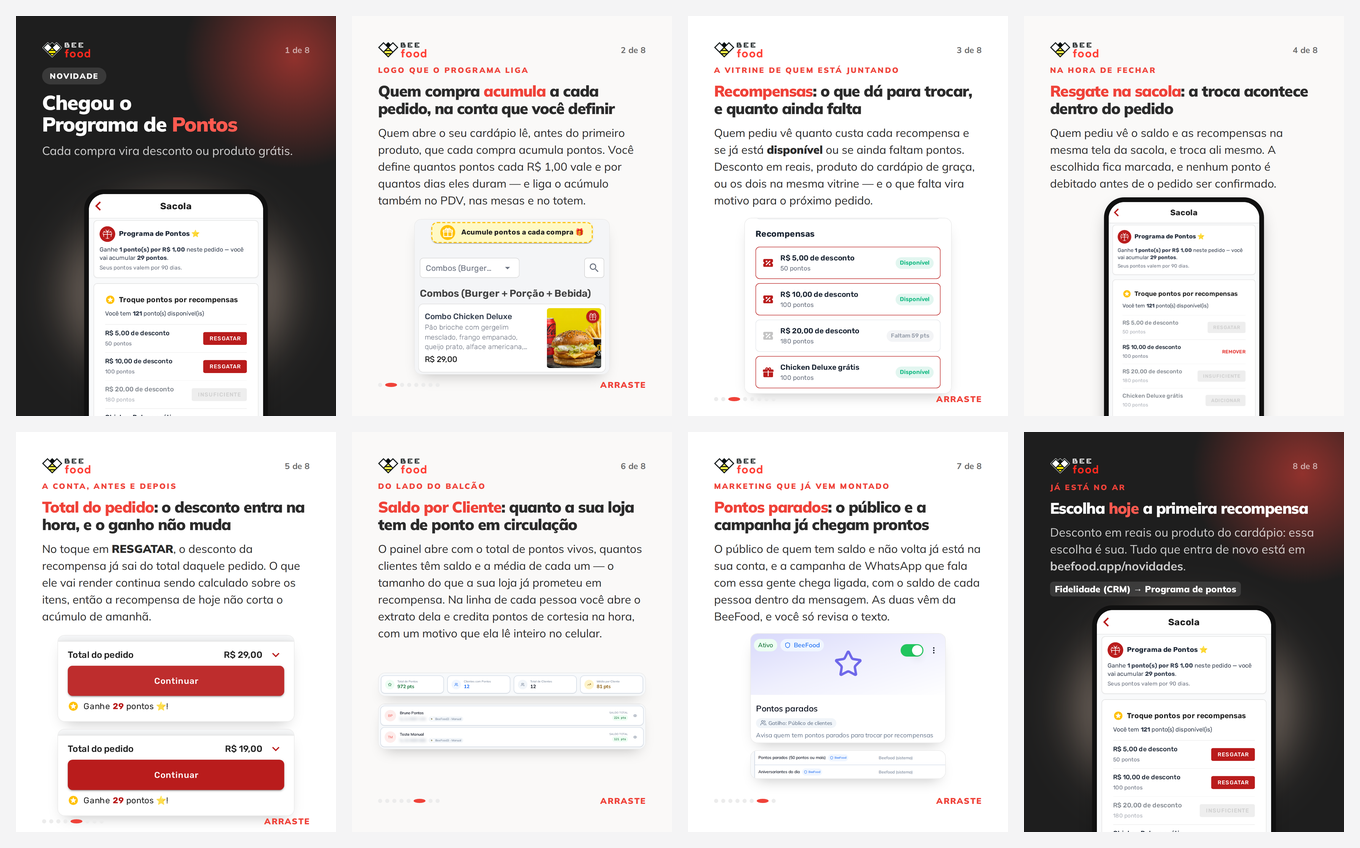
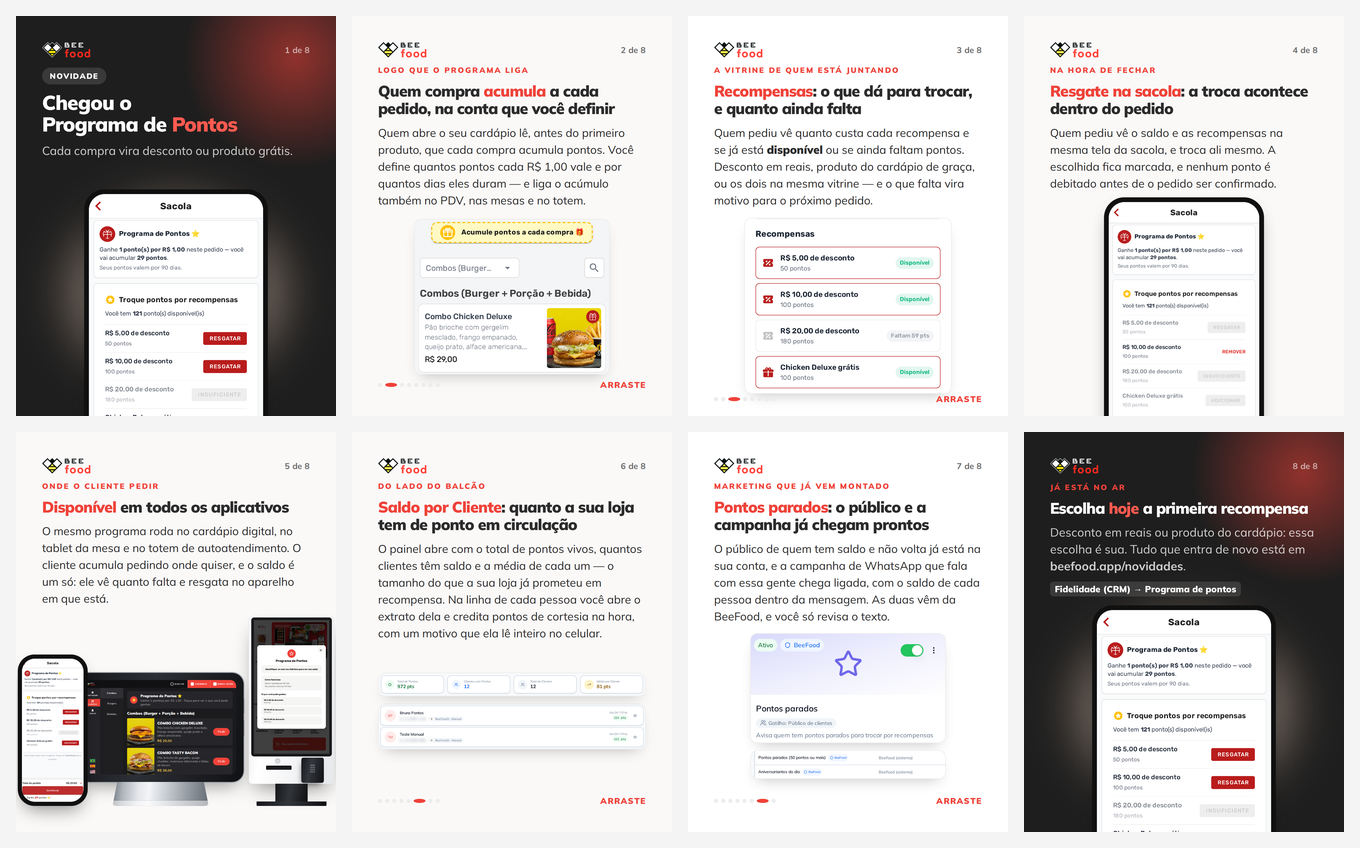
carrossel 12: troca o slide do total do pedido pela fileira de aparelhos
O dono pediu para tirar o slide 5 (Total do pedido) e por no lugar
"Disponivel em todos os aplicativos", com cardapio digital, tablet e
totem na mesma imagem.

- captura de verdade das telas de pontos do totem na sandbox
  (10-totem-cardapio, 11-totem-janela-pontos, rec-totem-faixa)
- slide 05-aplicativos com os tres aparelhos em fileira que sangra de
  borda a borda; a tela do tablet e desenhada, porque o APK Android nao
  roda aqui
- involucro de largura fixa em volta do totem e do tablet: a moldura
  deles e padding em porcentagem, e porcentagem mede a largura do PAI

Changed region(s): [[0.0, 0.5519, 0.2471, 0.9811]]

diff --git a/carrosseis/12-programa-de-pontos/slides/05-aplicativos.html b/carrosseis/12-programa-de-pontos/slides/05-aplicativos.html
@@ -1,0 +1,214 @@
+<!-- Slide 5: o lugar do antigo "Total do pedido", que saiu a pedido do dono.
+     O fato dele (o desconto entra na hora e o ganho nao muda) continua na
+     legenda; o que entra aqui e o alcance, que a peca nao dizia em imagem
+     nenhuma.
+
+     E o UNICO slide da peca em que a tela nao e para ser lida. A prova aqui
+     nao e o que esta escrito dentro dos aparelhos: e que sao TRES aparelhos,
+     e que nos tres aparece a mesma coisa vermelha com estrela. Por isso cada
+     um leva a tela em que o Programa de Pontos ocupa mais area: a sacola no
+     celular (cartao vermelho no alto), a faixa desenhada no tablet e a janela
+     de pontos no totem (circulo vermelho no meio do branco).
+
+     Duas das tres telas sao captura de verdade. A do tablet e DESENHADA, e e
+     a unica tela desenhada da peca: o aplicativo do tablet e um APK Android
+     (`Cardapio Mesa/Comanda`, 1.0.2.8) que nao roda no Cloud Agent, e o print
+     de producao que existe em `manuais/` foi tirado antes de o programa
+     existir. O desenho copia aquele print — fundo escuro, preco em amarelo,
+     botao vermelho — e acrescenta a faixa de pontos no formato que o release
+     promete para o canal presencial. Registrado no `roteiro.md` e no
+     `cena.json`.
+
+     A fileira SANGRA: em vez de `.figura`, que respeita a margem de 88 px dos
+     dois lados, o grupo e absoluto de borda a borda. A primeira versao ficou
+     dentro da margem, e com 904 px para dividir entre tres aparelhos sobrou
+     uma faixa branca de uns 130 px entre o corpo e o celular — o slide parecia
+     um texto com uma miniatura embaixo. Os 176 px da margem sao quase 20% de
+     aparelho, e e o que faz a fileira virar o assunto do slide.
+
+     A escala NAO e a fisica. Um totem de 1,80 m ao lado de um celular de
+     15 cm deixaria o celular do tamanho de uma unha. Os tres entram com altura
+     parecida, que e como pagina de produto alinha aparelho, e o totem fica
+     um pouco mais alto porque e o unico que fica em pe no chao.
+
+     Sem rodape: a base do totem e o suporte do tablet encostam no pe do
+     slide, e ponto desenhado em cima de aparelho parece sujeira. -->
+<div class="slide slide--suave">
+  <div class="topo">
+    <span class="logo"></span>
+    <span class="contador">5 de 8</span>
+  </div>
+
+  <div class="pilha g24" style="margin-top: 26px; max-width: 900px">
+    <!-- "Do delivery ao balcao" foi a primeira versao e saiu quase igual ao
+         chapeu do slide 6 ("Do lado do balcao") — na folha de contato os dois
+         liam como o mesmo slide. -->
+    <span class="chapeu">Onde o cliente pedir</span>
+    <h2 class="titulo titulo--pequeno">
+      <span class="destaque">Disponível</span> em todos os aplicativos
+    </h2>
+    <p class="corpo">
+      O mesmo programa roda no cardápio digital, no tablet da mesa e no totem
+      de autoatendimento. O cliente acumula pedindo onde quiser, e o saldo é um
+      só: ele vê quanto falta e resgata no aparelho em que está.
+    </p>
+  </div>
+
+  <!-- Fileira de borda a borda. `left/right: 0` resolve contra a caixa de
+       padding do `.slide`, entao o grupo ignora a margem; `bottom: 88px` traz
+       o pe do grupo de volta para a linha da margem, que e onde o rodape dos
+       outros slides comeca. A altura e a do totem inteiro (carcaca + coluna +
+       base), que e o aparelho mais alto dos tres. -->
+  <div style="position: absolute; left: 0; right: 0; bottom: 88px; height: 638px">
+
+    <!-- CADA APARELHO VAI DENTRO DE UM INVOLUCRO DA LARGURA DELE, e isso nao e
+         gosto: a moldura do `.totem` e a do `.tablet` sao `padding` em
+         PORCENTAGEM, e porcentagem de padding mede a largura do bloco que
+         CONTEM o elemento, nao a largura dele. Com o aparelho absoluto direto
+         aqui dentro, a conta virava 6% de 1080 — moldura de 65 px num totem de
+         300, quase quatro vezes a certa. No render o totem saiu atarracado,
+         com a tela do tamanho de um selo no meio de um armarinho branco.
+         O involucro de largura fixa devolve a porcentagem ao aparelho. -->
+
+    <!-- Totem: captura de verdade, 720x1280 (9/16), a janela de pontos aberta.
+         O `bottom` do involucro e a coluna (60) mais a base (15), porque as
+         duas sao absolutas penduradas em `top: 100%` e nao entram na altura do
+         `.totem` — sem isso a base furava o pe do slide. E o mais alto dos
+         tres de proposito: e o unico que fica em pe no chao. -->
+    <div style="position: absolute; right: 6px; bottom: 75px; width: 288px">
+    <!-- O fio cinza no `box-shadow` nao e enfeite: a carcaca do totem e branca
+         e o fundo do slide e `--fundo-suave`, quase branco tambem. Sem o fio,
+         o terco de cima do totem sumia e o slide parecia ter um vao vazio
+         entre o corpo e a fileira. -->
+    <div class="totem"
+         style="width: 100%; --coluna: 60px;
+                box-shadow: 0 0 0 1px #e1e2e6,
+                            0 34px 64px -22px rgba(0, 0, 0, 0.45)">
+      <div class="totem__tela">
+        <img src="../imagens-puras/11-totem-janela-pontos.png"
+             alt="A janela Programa de Pontos aberta na tela do totem">
+      </div>
+      <div class="totem__painel">
+        <span class="totem__leitor"></span>
+        <span class="totem__impressora"></span>
+        <span class="totem__pinpad">
+          <span class="totem__tecla"><span></span><span></span><span></span></span>
+          <span class="totem__tecla"><span></span><span></span><span></span></span>
+          <span class="totem__tecla"><span></span><span></span><span></span></span>
+        </span>
+      </div>
+      <div class="totem__coluna"></div>
+      <div class="totem__base"></div>
+    </div>
+    </div>
+
+    <!-- Tablet: tela DESENHADA, porque o APK Android nao roda aqui. O
+         `bottom: 81px` e a altura do suporte (um quarto de 58% da largura),
+         para a chapa encostar na mesma linha em que a base do totem encosta.
+
+         Tablet deitado e grande no meio do slide corre o risco de ler como
+         MONITOR — o defeito que o proprio `base.css` avisa. Aqui quem desfaz a
+         leitura e a fileira, nao o desenho: o totem mais alto a direita da a
+         escala, e o celular cobrindo o canto esquerdo da a profundidade. Por
+         isso o celular entra sobrepondo o tablet, e nao encostado nele. -->
+    <div style="position: absolute; left: 208px; bottom: 81px; width: 560px">
+    <div class="tablet" style="width: 100%">
+      <div class="tablet__tela">
+        <!-- A tela desenhada e toda em `em`: esse `font-size` e a escala dela.
+             11,5 px e o que mantem a faixa de pontos legivel como faixa e deixa
+             o corte cair dentro da foto do ultimo item, nao no preco. -->
+        <div class="tela-tablet" style="font-size: 11.5px">
+          <div class="tela-tablet__topo">
+            <span class="tela-tablet__logo"></span>
+            <span class="tela-tablet__busca"><i class="lupa"></i>BUSCAR</span>
+            <span class="tela-tablet__acao"><i></i>CARRINHO</span>
+            <span class="tela-tablet__acao"><i></i>MINHA CONTA</span>
+          </div>
+          <div class="tela-tablet__miolo">
+            <div class="tela-tablet__atalhos">
+              <div class="tela-tablet__atalho"><i></i>DESTAQUES</div>
+              <div class="tela-tablet__atalho tela-tablet__atalho--ativo">
+                <i class="talher"></i>CARDÁPIO
+              </div>
+              <div class="tela-tablet__atalho"><i class="sino"></i>AVALIE</div>
+              <div class="tela-tablet__idiomas">
+                <span class="bandeira bandeira--retangular"><span>&#127463;&#127479;</span></span>
+                <span class="bandeira bandeira--retangular"><span>&#127466;&#127480;</span></span>
+                <span class="bandeira bandeira--retangular"><span>&#127482;&#127480;</span></span>
+              </div>
+            </div>
+            <div class="tela-tablet__setores">
+              <div class="tela-tablet__setor tela-tablet__setor--ativo">Combos</div>
+              <div class="tela-tablet__setor">Burgers</div>
+              <div class="tela-tablet__setor">Bebidas</div>
+            </div>
+            <div class="tela-tablet__corpo">
+              <!-- A faixa de pontos, no formato do cardapio e do totem: circulo
+                   vermelho com estrela, nome do programa e a regua. Cartao
+                   escuro porque a tela do tablet e escura. -->
+              <div style="display: flex; align-items: center; gap: 0.8em;
+                          padding: 0.7em 0.9em; border-radius: 0.4em;
+                          background: #26262a">
+                <span style="flex: none; width: 2.2em; height: 2.2em;
+                             border-radius: 50%; background: var(--primaria);
+                             display: flex; align-items: center;
+                             justify-content: center; font-size: 1em">⭐</span>
+                <span style="display: flex; flex-direction: column; gap: 0.1em">
+                  <b style="font-size: 1.05em; font-weight: 900">Programa de Pontos ⭐</b>
+                  <small style="font-size: 0.85em; color: rgba(255,255,255,0.6)">
+                    Ganhe 1 ponto(s) por R$ 1,00 · Toque para ver o que você pode ganhar
+                  </small>
+                </span>
+              </div>
+              <div class="tela-tablet__faixa">Combos (Burger + Porção + Bebida)</div>
+              <div class="tela-tablet__item">
+                <img src="skill:fotos/foto-melted.png" alt="">
+                <div class="tela-tablet__texto">
+                  <span>COMBO CHICKEN DELUXE</span>
+                  <small>Pão brioche com gergelim mesclado, frango empanado,
+                    queijo prato e alface americana</small>
+                  <b>R$ 29,00</b>
+                </div>
+                <span class="tela-tablet__pedir">Pedir</span>
+              </div>
+              <div class="tela-tablet__item">
+                <img src="skill:fotos/foto-tasty-bacon.png" alt="">
+                <div class="tela-tablet__texto">
+                  <span>COMBO TASTY BACON</span>
+                  <small>Pão brioche de gergelim, queijo cheddar, maionese
+                    defumada e fatias de bacon</small>
+                  <b>R$ 38,00</b>
+                </div>
+                <span class="tela-tablet__pedir">Pedir</span>
+              </div>
+              <div class="tela-tablet__item">
+                <img src="skill:fotos/foto-one-classic.png" alt="">
+                <div class="tela-tablet__texto">
+                  <span>COMBO ONE CLASSIC</span>
+                  <small>Pão brioche, hambúrguer de 100 g, alface, tomate,
+                    cebola roxa e maionese verde</small>
+                  <b>R$ 31,00</b>
+                </div>
+                <span class="tela-tablet__pedir">Pedir</span>
+              </div>
+            </div>
+          </div>
+        </div>
+      </div>
+      <div class="tablet__suporte"></div>
+    </div>
+    </div>
+
+    <!-- Celular: captura de verdade, a sacola com o cartao do programa. Na
+         frente dos outros dois, que e a ordem de uma fileira de aparelho:
+         o menor cobre um pedaco do maior, nunca o contrario. Sem involucro,
+         porque a moldura do celular e em px. -->
+    <div class="celular"
+         style="width: 236px; position: absolute; left: 6px; bottom: 0; z-index: 2">
+      <div class="celular__tela">
+        <img src="../imagens-puras/04-sacola-com-pontos.png"
+             alt="A sacola do cardápio digital no celular, com o cartão Programa de Pontos">
+      </div>
+    </div>
+  </div>
+</div>

diff --git a/carrosseis/12-programa-de-pontos/capturar-telas.py b/carrosseis/12-programa-de-pontos/capturar-telas.py
@@ -67,6 +67,16 @@ RECOMPENSA = "R$ 10,00 de desconto"
 CELULAR = {"width": 390, "height": 844}
 COMPUTADOR = {"width": 1440, "height": 900}
 
+# O totem da própria sandbox (`beefood3`), e não o de exemplo da ONE Stand do
+# `capturar-totem.py`: aqui o programa está ligado e o cliente de teste tem
+# saldo. 720x1280 é 9/16, que é a proporção que a moldura `.totem__tela` espera
+# — print em outra proporção entra recortado nas laterais. E é a resolução
+# menor de propósito: o aplicativo desenha botão e faixa em px fixo, então numa
+# tela de 1080p reduzida para 260 px na arte a faixa de pontos viraria um risco.
+TOTEM = ("https://totem.beefood.app/?empresaID=38311&filialID=39202"
+         "&token=D3590976-63A1-4FDF-9721-0E054CBF3BB5")
+TELA_TOTEM = {"width": 720, "height": 1280}
+
 # As três de desconto são as que estão cadastradas hoje; a de produto é a que o
 # manual fotografou de manhã e que saiu do cadastro desde então. Ver cena.json.
 RECOMPENSAS = {
@@ -306,6 +316,56 @@ def computador(p, cru=False):
         nav.close()
 
 
+def totem(p):
+    """O Programa de Pontos na tela do totem de autoatendimento.
+
+    **Isto desmente o que o manual diz, e foi medido aqui.** A seção 12 do
+    manual e o `fluxo-codigo.md` afirmam que *o totem ainda não tem tela de
+    pontos*, a partir de uma busca que não achou `pontos` no bundle. O bundle
+    publicado hoje (`index-D3WF6suQ.js`) tem um bloco de tradução inteiro só
+    para pontos — *Programa de Pontos*, *Toque para ver o que você pode ganhar*,
+    *Seu saldo disponível*, *Usar meus pontos*, *Selecione sua recompensa* — e
+    o aparelho desenha tudo. Quem estiver mexendo no manual precisa corrigir
+    aquela linha; esta skill não escreve lá.
+
+    **Nenhum pedido é feito.** O roteiro abre a tela de espera, entra no
+    cardápio e abre a janela de pontos. A sacola fica vazia.
+
+    O service worker vai bloqueado: o totem é PWA e serve as imagens pelo
+    worker dele, e sem isso a tela sai sem foto de produto.
+    """
+    nav = p.chromium.launch(args=["--no-sandbox"])
+    ctx = nav.new_context(viewport=TELA_TOTEM, device_scale_factor=2,
+                          locale="pt-BR", timezone_id="America/Sao_Paulo",
+                          service_workers="block")
+    pagina = ctx.new_page()
+    try:
+        pagina.goto(TOTEM, wait_until="networkidle", timeout=120000)
+        assentar(pagina, 6000)
+
+        # O botão de começar pulsa para sempre, e o Playwright espera
+        # estabilidade até estourar o tempo: todo clique aqui vai com `force`.
+        pagina.click("button:has-text('FAÇA SEU PEDIDO')", force=True)
+        pagina.wait_for_timeout(9000)
+        assentar(pagina, 5000)
+        # A tela inteira, que é o que entra dentro da moldura do totem.
+        tirar(pagina, "10-totem-cardapio.png")
+
+        faixa = pagina.get_by_text("Programa de Pontos", exact=False).first
+        recortar(pagina, "rec-totem-faixa.png", faixa, folga=12,
+                 lateral=faixa.locator("xpath=ancestor::*[2]"), folga_lado=(0, 0))
+
+        faixa.click(force=True)
+        pagina.wait_for_timeout(5000)
+        assentar(pagina, 3000)
+        tirar(pagina, "11-totem-janela-pontos.png")
+        print("ATENÇÃO: nada foi pedido no totem — a sacola ficou vazia.")
+    finally:
+        salvar_medidas()
+        ctx.close()
+        nav.close()
+
+
 def painel():
     """As duas telas do lado do restaurante: o saldo em circulação e a automação.
 
@@ -411,15 +471,17 @@ def main():
     ap.add_argument("--cru", action="store_true",
                     help="sem a recompensa de produto devolvida pela API")
     args = ap.parse_args()
-    alvos = args.alvos or ["celular", "computador", "painel"]
+    alvos = args.alvos or ["celular", "computador", "painel", "totem"]
     if "painel" in alvos:
         painel()
-    if {"celular", "computador"} & set(alvos):
+    if {"celular", "computador", "totem"} & set(alvos):
         with sync_playwright() as p:
             if "celular" in alvos:
                 celular(p, args.cru)
             if "computador" in alvos:
                 computador(p, args.cru)
+            if "totem" in alvos:
+                totem(p)
 
 
 if __name__ == "__main__":
